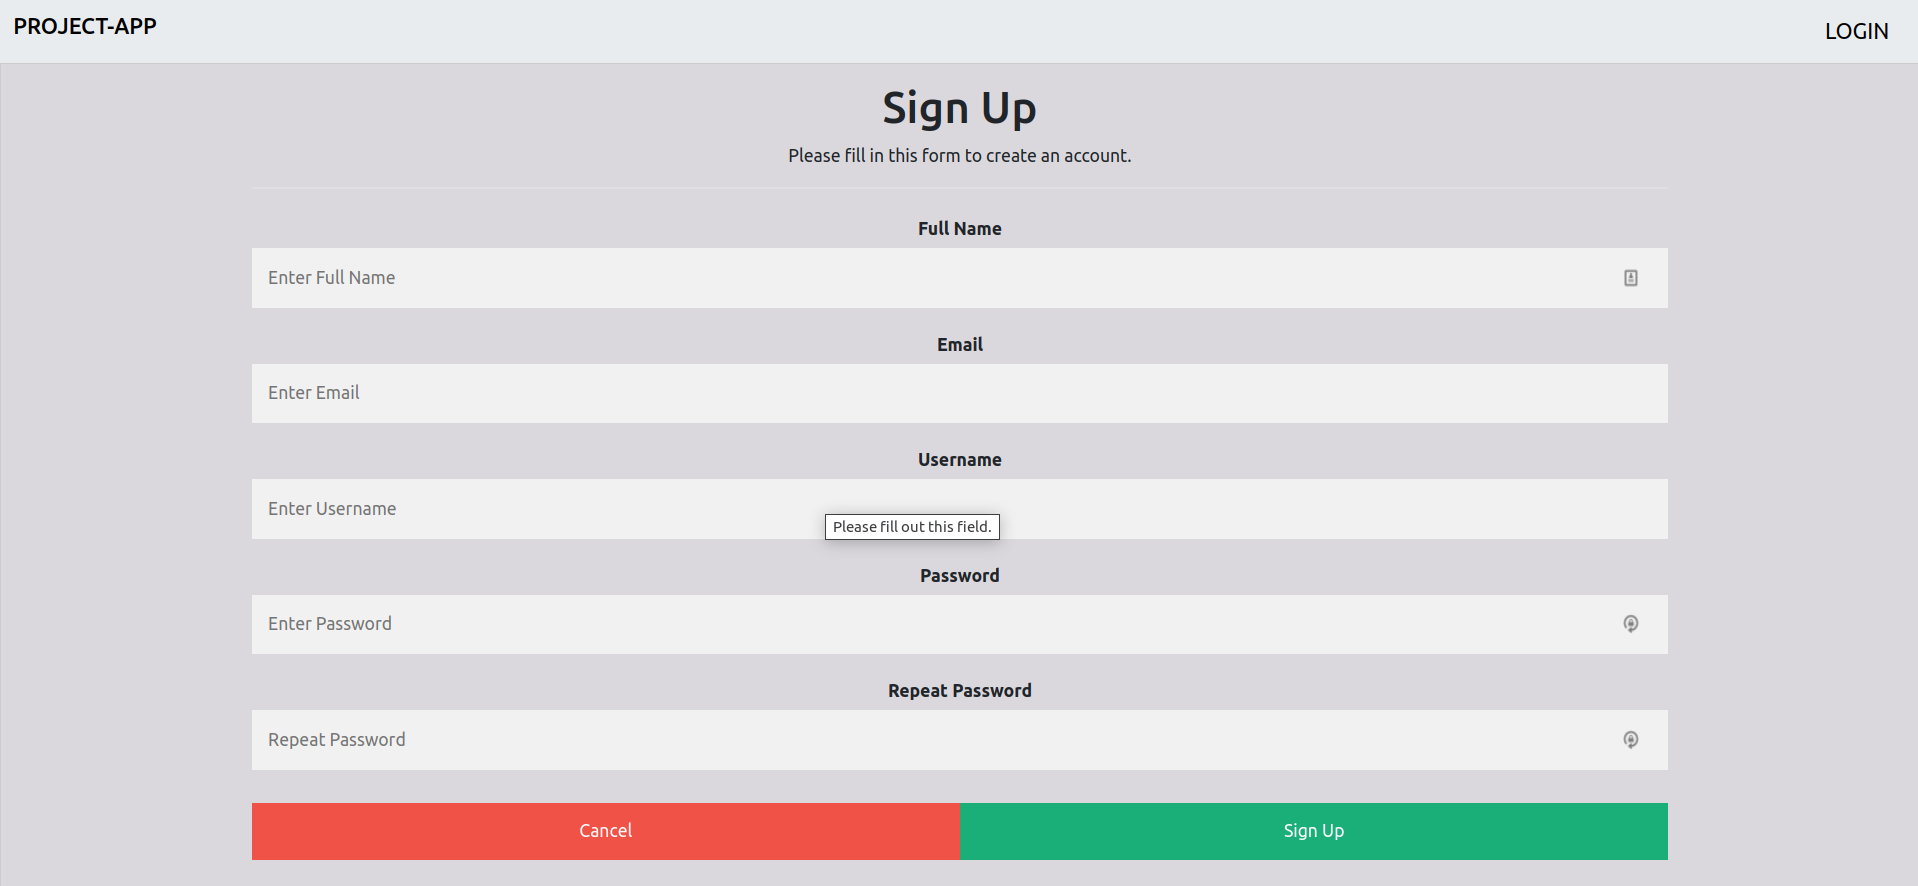
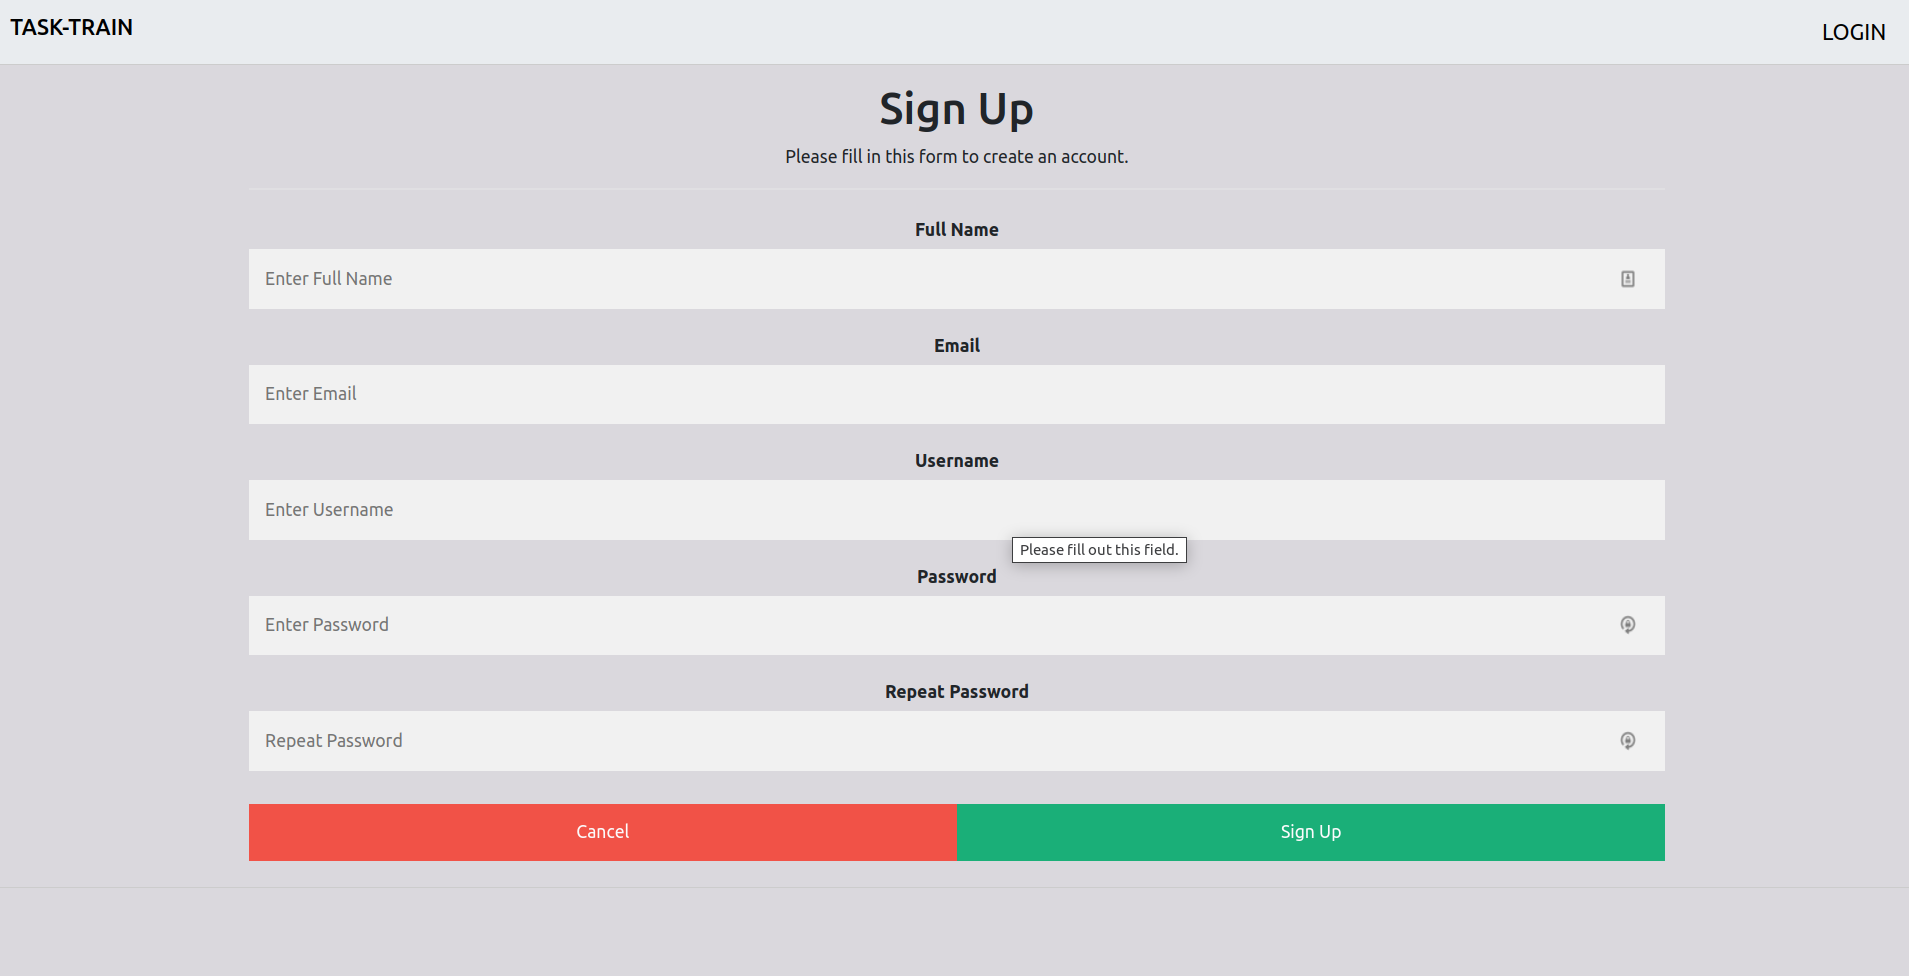
Update README with screenshots

diff --git a/README.md b/README.md
@@ -69,7 +69,7 @@ If you wish to run application from cloned repository:
 If you wish to access the application without cloning it to your computer,simply follow this simple step:
 - Access the website by going to the following link:
    
-                https://p3-project-app-frontend.vercel.app/
+                https://task-train-frontend.vercel.app/
 
 
 ---
@@ -96,19 +96,17 @@ If you wish to create your own account, click the button **'Register?'** and you
 
 After logging in, you shall be returned to the home page:
 
-![After Login Screenshot](src/images/after_login_screenshot.png)
+![After Login Screenshot](src/images/after_login_screen.png)
 
-You now have the option **'MY-PROJECTS'** on the navbar. Click the option and you'll view your projects. Below are the projects of the dummy account that was mentioned beforehand:
+You now have the option **'MY-TODOS'** on the navbar. Click the option and you'll view your todos. Below are the todos of the dummy account that was mentioned beforehand:
 
-![My Projects Screenshot](src/images/my_projects_screenshot.png)
+![My Todos Screenshot](src/images/my_todos_screen.png)
 
-You may click the **'Add Project'** button to create a new project. It shall direct you to a form:
+You may click the **'Add Todo'** button to create a new todo. It shall direct you to a form:
 
-![Add Project Screenshot](src/images/add_project_screenshot.png)
+![Add Todo Screenshot](src/images/add_todo_screen.png)
 
-You also have the options to update and delete projects that you own. The update and delete buttons are disbled if you are not the project owner. The update button shall direct you to a form that is prepopulated with the data that is currently tied to the project. You may change any field to update the project.
-
-The project status can as well be changed by any member or project owner by choosing an option in the status dropdown.
+The update button shall direct you to a form that is prepopulated with the data that is currently tied to the todo. You may change any field to update the todo.
 
 
 ## Authors
